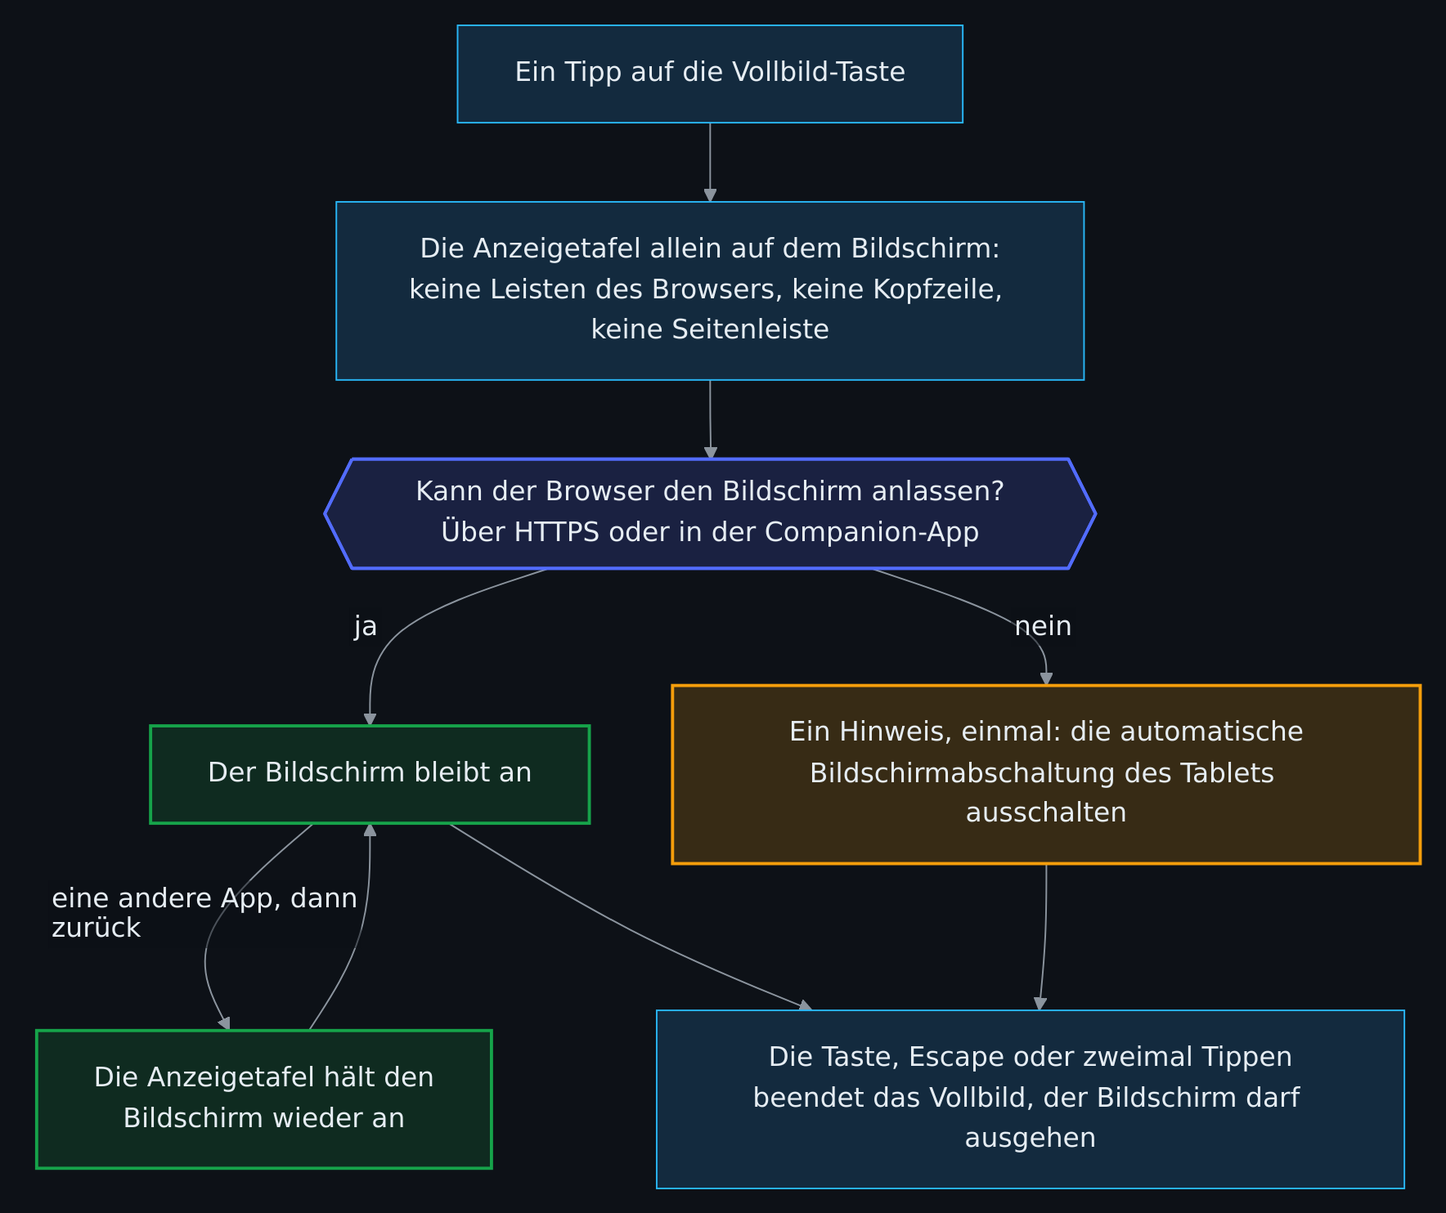
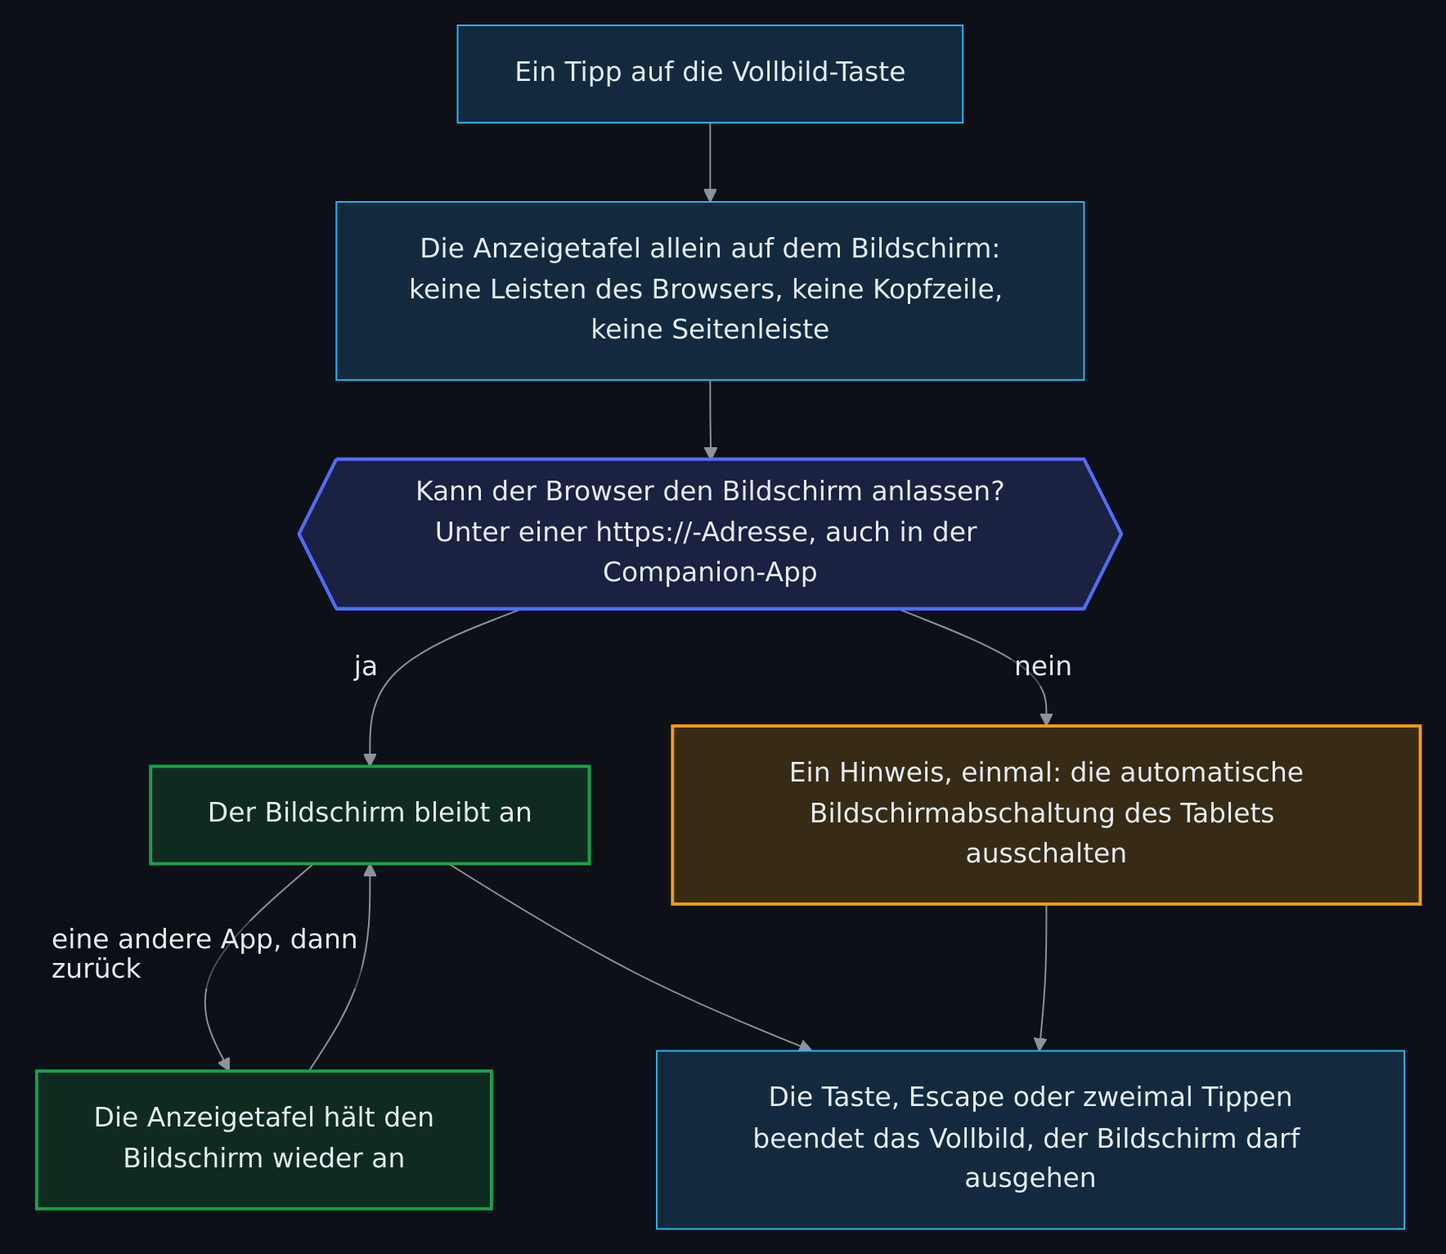
fix(cards): keep the full-screen hint in the header and say where the wake lock works
- The hint of a browser that can't keep the screen on is now a row of the
  header, so the landscape keypad grid keeps its areas while it shows.
- The Screen Wake Lock needs an https:// address in the Companion app too;
  the docs, the diagram and the editor helper in five languages say so, and
  point to the Android Companion app's own setting.
- The German README mentions the full-screen button like the English one.
- The browser test enters full screen on the tablet with the keypad, checks
  that it fits one screen, and leaves it with the button.

diff --git a/custom_components/homedarts/frontend/homedarts-card.js b/custom_components/homedarts/frontend/homedarts-card.js
@@ -7272,9 +7272,10 @@ const SCOREBOARD_CSS = `${BASE_CSS}${PAD_CSS}
     color: #fff; background: var(--ad-accent-fill); border-color: var(--ad-accent-fill);
   }
   @media (any-pointer: coarse) { .fullscreen-toggle { width: 44px; height: 44px; } }
-  /* Once, where the browser can't keep the screen on: what to do instead. */
+  /* Once, where the browser can't keep the screen on: what to do instead. It is a row of
+     its own in the header, so every layout of the scoreboard keeps its grid areas. */
   .awake-hint {
-    margin: 0; padding: .6em 1em; border-radius: 12px; font-size: clamp(13px, 1.6cqi, 18px);
+    flex: 1 0 100%; margin: 0; padding: .6em 1em; border-radius: 12px; font-size: clamp(13px, 1.6cqi, 18px);
     color: var(--ad-warn-text); background: color-mix(in srgb, ${STATUS_COLORS.takeout} 14%, transparent);
   }
   .awake-hint a { color: inherit; font-weight: 700; }
@@ -10408,9 +10409,9 @@ function createElements(Base) {
                   ${c.show_status ? `<div class="pill" role="status"></div>` : ""}
                   ${fullscreen}
                 </div>
+                <p class="awake-hint" role="status" hidden>${t("awake_hint")}
+                  <a href="${awake}" target="_blank" rel="noreferrer">${t("awake_hint_link")}</a></p>
               </header>
-              <p class="awake-hint" role="status" hidden>${t("awake_hint")}
-                <a href="${awake}" target="_blank" rel="noreferrer">${t("awake_hint_link")}</a></p>
               <div class="banner appear" role="status" hidden></div>
               <div class="main"></div>
               ${c.show_visit ? `<div class="visit"></div>` : ""}

diff --git a/custom_components/homedarts/frontend/text/fr.js b/custom_components/homedarts/frontend/text/fr.js
@@ -222,7 +222,7 @@ export default {
   "show_status": "Afficher l'état de la cible",
   "fullscreen_button": "Bouton plein écran",
   "keep_awake": "Garder l'écran allumé en plein écran",
-  "keep_awake_helper": "Là où le navigateur le permet à une page\u00a0: en HTTPS, comme avec Home Assistant Cloud, et dans l'application Companion.",
+  "keep_awake_helper": "Là où le navigateur le permet à une page\u00a0: à une adresse https://, comme avec Home Assistant Cloud, dans le navigateur comme dans l'application Companion.",
   "fullscreen": "Plein écran",
   "fullscreen_hint": "Afficher le tableau des scores seul sur tout l'écran\u00a0; le bouton, Échap ou un double appui le quitte",
   "awake_hint": "Ce navigateur ne peut pas garder l'écran allumé ici. Désactivez la mise en veille de l'écran dans les réglages de la tablette.",

diff --git a/custom_components/homedarts/frontend/text/es.js b/custom_components/homedarts/frontend/text/es.js
@@ -222,7 +222,7 @@ export default {
   "show_status": "Mostrar el estado de la diana",
   "fullscreen_button": "Botón de pantalla completa",
   "keep_awake": "Mantener la pantalla encendida en pantalla completa",
-  "keep_awake_helper": "Donde el navegador se lo permite a una página: por HTTPS, como con Home Assistant Cloud, y en la app Companion.",
+  "keep_awake_helper": "Donde el navegador se lo permite a una página: en una dirección https://, como con Home Assistant Cloud, tanto en el navegador como en la app Companion.",
   "fullscreen": "Pantalla completa",
   "fullscreen_hint": "Mostrar solo el marcador en toda la pantalla; el botón, Escape o un doble toque la cierra",
   "awake_hint": "Este navegador no puede mantener la pantalla encendida aquí. Desactiva el apagado automático de la pantalla en los ajustes de la tableta.",

diff --git a/custom_components/homedarts/frontend/text/de.js b/custom_components/homedarts/frontend/text/de.js
@@ -222,7 +222,7 @@ export default {
   "show_status": "Board-Status anzeigen",
   "fullscreen_button": "Vollbild-Taste",
   "keep_awake": "Bildschirm im Vollbild eingeschaltet lassen",
-  "keep_awake_helper": "Wo der Browser es einer Seite erlaubt: über HTTPS, etwa mit Home Assistant Cloud, und in der Companion-App.",
+  "keep_awake_helper": "Wo der Browser es einer Seite erlaubt: unter einer https://-Adresse, etwa mit Home Assistant Cloud, im Browser wie in der Companion-App.",
   "fullscreen": "Vollbild",
   "fullscreen_hint": "Die Anzeigetafel allein auf dem ganzen Bildschirm zeigen; die Taste, Escape oder zweimal Tippen beendet das Vollbild",
   "awake_hint": "Dieser Browser kann den Bildschirm hier nicht eingeschaltet lassen. Schalte die automatische Bildschirmabschaltung in den Einstellungen des Tablets aus.",

diff --git a/custom_components/homedarts/frontend/text/en.js b/custom_components/homedarts/frontend/text/en.js
@@ -225,7 +225,7 @@ export default {
   "show_status": "Show the board status",
   "fullscreen_button": "Full-screen button",
   "keep_awake": "Keep the screen on in full screen",
-  "keep_awake_helper": "Where the browser lets a page do it: over HTTPS, such as with Home Assistant Cloud, and in the Companion app.",
+  "keep_awake_helper": "Where the browser lets a page do it: at an https:// address, such as with Home Assistant Cloud, in the browser and in the Companion app alike.",
   "fullscreen": "Full screen",
   "fullscreen_hint": "Show the scoreboard alone on the whole screen; the button, Escape or a double tap leaves full screen",
   "awake_hint": "This browser can't keep the screen on here. Switch off the screen timeout in the settings of the tablet.",

diff --git a/custom_components/homedarts/frontend/text/nl.js b/custom_components/homedarts/frontend/text/nl.js
@@ -222,7 +222,7 @@ export default {
   "show_status": "Bordstatus tonen",
   "fullscreen_button": "Knop voor volledig scherm",
   "keep_awake": "Scherm aan laten bij volledig scherm",
-  "keep_awake_helper": "Waar de browser een pagina dat toestaat: via HTTPS, zoals met Home Assistant Cloud, en in de Companion-app.",
+  "keep_awake_helper": "Waar de browser een pagina dat toestaat: op een https://-adres, zoals met Home Assistant Cloud, in de browser en in de Companion-app.",
   "fullscreen": "Volledig scherm",
   "fullscreen_hint": "Toon alleen het scorebord op het hele scherm; de knop, Escape of dubbeltikken sluit het",
   "awake_hint": "Deze browser kan het scherm hier niet aan laten. Zet de schermtime-out uit in de instellingen van de tablet.",

diff --git a/tests/e2e/browser.py b/tests/e2e/browser.py
@@ -1377,6 +1377,30 @@ def tablet_screen(browser: Browser) -> None:
         and pad["top"] < main["bottom"],
         f"The pad is not beside the scores: {fit}",
     )
+    # Full screen: the keypad layout still fills exactly one screen, with the hint of a
+    # browser that can't keep the screen on over plain HTTP in the header, and the button
+    # brings the configured height back.
+    toggle = page.locator(f"{card} .fullscreen-toggle")
+    toggle.click()
+    page.wait_for_function("() => !!document.fullscreenElement", timeout=15000)
+    check(
+        toggle.get_attribute("aria-pressed") == "true",
+        "The full-screen button is not pressed in full screen",
+    )
+    page.locator(f"{card} header .awake-hint").wait_for(timeout=15000)
+    fits("The keypad in full screen")
+    fills("The keypad in full screen")
+    check(
+        page.evaluate(TABLET_FIT)["beside"],
+        "The pad is not beside the scores in full screen",
+    )
+    toggle.click()
+    page.wait_for_function("() => !document.fullscreenElement", timeout=15000)
+    check(
+        toggle.get_attribute("aria-pressed") == "false",
+        "The full-screen button stays pressed after full screen",
+    )
+    fills("The keypad after full screen")
     page.evaluate(CALL_SERVICE, ["switch", "turn_off", "practice_manual_entry"])
     game_off()
 

diff --git a/docs/scoreboard.de.md b/docs/scoreboard.de.md
@@ -44,11 +44,11 @@ Die Vollbild-Taste oben rechts auf der Anzeigetafel zeigt die Anzeigetafel allei
 
 <picture>
   <source media="(prefers-color-scheme: dark)" srcset="images/de/fullscreen-dark.png">
-  <img src="images/de/fullscreen-light.png" alt="Wie die Anzeigetafel im Vollbild den Bildschirm eingeschaltet lässt: Ein Tipp auf die Vollbild-Taste zeigt die Anzeigetafel allein auf dem Bildschirm, ohne die Leisten des Browsers und ohne Kopfzeile und Seitenleiste von Home Assistant. Wo der Browser einer Seite erlaubt, den Bildschirm eingeschaltet zu lassen, über HTTPS oder in der Companion-App, bleibt er an. Zeigt das Tablet eine andere App, lässt der Browser los, und die Anzeigetafel hält den Bildschirm wieder an, sobald die Seite wieder zu sehen ist. Wo der Browser es nicht kann, sagt ein Hinweis einmal, die automatische Bildschirmabschaltung des Tablets auszuschalten. Die Taste, Escape oder zweimal Tippen beendet das Vollbild, und der Bildschirm darf wieder ausgehen." width="560">
+  <img src="images/de/fullscreen-light.png" alt="Wie die Anzeigetafel im Vollbild den Bildschirm eingeschaltet lässt: Ein Tipp auf die Vollbild-Taste zeigt die Anzeigetafel allein auf dem Bildschirm, ohne die Leisten des Browsers und ohne Kopfzeile und Seitenleiste von Home Assistant. Wo der Browser einer Seite erlaubt, den Bildschirm eingeschaltet zu lassen, unter einer https://-Adresse im Browser wie in der Companion-App, bleibt er an. Zeigt das Tablet eine andere App, lässt der Browser los, und die Anzeigetafel hält den Bildschirm wieder an, sobald die Seite wieder zu sehen ist. Wo der Browser es nicht kann, sagt ein Hinweis einmal, die automatische Bildschirmabschaltung des Tablets auszuschalten. Die Taste, Escape oder zweimal Tippen beendet das Vollbild, und der Bildschirm darf wieder ausgehen." width="560">
 </picture>
 
-- **Der Bildschirm bleibt an,** solange die Anzeigetafel ihn füllt: Die Karte bittet den Browser, den Bildschirm anzulassen (Screen Wake Lock), und bittet erneut, wenn das Tablet die Seite nach einer anderen App wieder zeigt. Browser erlauben das einer Seite nur über HTTPS, etwa unter der Adresse von Home Assistant Cloud, und in der Companion-App von Home Assistant.
-- **Wo der Browser es nicht kann,** etwa unter einer Adresse, die mit `http://` beginnt, sagt die Anzeigetafel das einmal, mit einem Link auf diesen Abschnitt. Schalte die automatische Bildschirmabschaltung in den Einstellungen des Tablets aus, zumindest am Ladegerät, oder öffne die Ansicht in einem Kiosk-Browser, der den Bildschirm anlässt.
+- **Der Bildschirm bleibt an,** solange die Anzeigetafel ihn füllt: Die Karte bittet den Browser, den Bildschirm anzulassen (Screen Wake Lock), und bittet erneut, wenn das Tablet die Seite nach einer anderen App wieder zeigt. Browser erlauben das einer Seite nur unter einer Adresse, die mit `https://` beginnt, etwa der von Home Assistant Cloud; das gilt auch für die Companion-App von Home Assistant, die Home Assistant in einem eigenen Browser zeigt.
+- **Wo der Browser es nicht kann,** etwa unter einer Adresse, die mit `http://` beginnt, sagt die Anzeigetafel das einmal, mit einem Link auf diesen Abschnitt. Schalte die automatische Bildschirmabschaltung in den Einstellungen des Tablets aus, zumindest am Ladegerät, oder öffne die Ansicht in einem Kiosk-Browser, der den Bildschirm anlässt. Die Android-Companion-App kann den Bildschirm auch selbst anlassen, mit einer Einstellung unter *Companion-App* in ihren Einstellungen.
 - **Wo die Taste erscheint:** in jedem Browser, der eine Seite ins Vollbild lässt, etwa Chrome, Edge, Firefox und Samsung Internet auf einem Tablet, einem Computer oder einem Handy, und Safari auf einem iPad. Safari auf dem iPhone zeigt nur Videos auf dem ganzen Bildschirm, dort bleibt die Taste weg: Lege die Ansicht stattdessen auf den Home-Bildschirm, der sie ohne die Leisten von Safari öffnet. Der Fernseher mit [Home Assistant Cast](#auf-dem-fernseher-mit-home-assistant-cast) und das [Stream-Overlay](#stream-overlay) haben auch keine, sie füllen ihren Bildschirm ohnehin.
 - **Deine Wahl:** `fullscreen_button: false` blendet die Taste aus, und `keep_awake: false` überlässt den Bildschirm den Einstellungen des Tablets. Beides steht im Karteneditor und im Abschnitt *Ansicht Anzeigetafel* des [automatischen Dashboards](cards.de.md#automatisches-dashboard).
 
@@ -320,7 +320,7 @@ overlay_color: "#FF00FF"
 | Was du siehst | Was hilft |
 | --- | --- |
 | Darts werden nicht gezählt | Die Erkennung ist gestoppt: Der Status oben rechts zeigt *Erkennung gestoppt*. Der Start in der Spielauswahl schaltet sie ein; sonst schaltest du sie im [Board-Status](cards.de.md#board-status) oder in der Live-Karte ein. Prüfe außerdem, dass *Übungsspiel* nicht auf *Aus* steht und kein [Online-Match](online-matches.de.md) das Board belegt. |
-| Der Bildschirm geht während eines Spiels aus | Im Vollbild lässt die Anzeigetafel den Bildschirm nur über HTTPS und in der Companion-App an; sonst sagt sie das einmal. Schalte die automatische Bildschirmabschaltung des Tablets aus; siehe [Vollbild](#vollbild). |
+| Der Bildschirm geht während eines Spiels aus | Im Vollbild lässt die Anzeigetafel den Bildschirm nur unter einer `https://`-Adresse an, im Browser wie in der Companion-App; sonst sagt sie das einmal. Schalte die automatische Bildschirmabschaltung des Tablets aus; siehe [Vollbild](#vollbild). |
 | Der Caller bleibt stumm | Tippe nach jedem Neuladen der Seite einmal auf **Caller**: Browser spielen Ton erst nach einem Tippen ab. Prüfe die Lautstärke des Geräts. |
 | Der Caller spricht trotz Voice-Pack mit der Stimme des Browsers | Der Name des Packs ist der Name seines Ordners in `homedarts/voices` des Medienordners, in derselben Groß- und Kleinschreibung. Ansagen, für die das Pack keine Datei hat, spricht immer der Browser; siehe die [Dateien eines Packs](#voice-packs). Dateien, die nach dem Einschalten des Callers kopiert wurden, zählen nach dem nächsten Tippen auf **Caller**. |
 | Die Spielauswahl öffnet sich nicht | Sie öffnet sich nie in der Vorschau des Karteneditors und nicht mit `lobby: false`. |

diff --git a/docs/scoreboard.md b/docs/scoreboard.md
@@ -44,11 +44,11 @@ The full-screen button at the top right of the scoreboard puts the scoreboard al
 
 <picture>
   <source media="(prefers-color-scheme: dark)" srcset="images/en/fullscreen-dark.png">
-  <img src="images/en/fullscreen-light.png" alt="How the scoreboard keeps the screen on in full screen: A tap on the full-screen button puts the scoreboard alone on the screen, without the bars of the browser and the header and sidebar of Home Assistant. Where the browser lets a page hold the screen on, over HTTPS or in the Companion app, the screen stays on. When the tablet shows another app, the browser lets go, and the scoreboard holds the screen on again when the page shows. Where the browser can't, a hint says once to switch off the screen timeout of the tablet. The button, Escape or a double tap leaves full screen and lets the screen sleep." width="560">
+  <img src="images/en/fullscreen-light.png" alt="How the scoreboard keeps the screen on in full screen: A tap on the full-screen button puts the scoreboard alone on the screen, without the bars of the browser and the header and sidebar of Home Assistant. Where the browser lets a page hold the screen on, at an https:// address in the browser and in the Companion app alike, the screen stays on. When the tablet shows another app, the browser lets go, and the scoreboard holds the screen on again when the page shows. Where the browser can't, a hint says once to switch off the screen timeout of the tablet. The button, Escape or a double tap leaves full screen and lets the screen sleep." width="560">
 </picture>
 
-- **The screen stays on** while the scoreboard fills it: the card asks the browser for a screen wake lock and asks again when the tablet shows the page after another app. Browsers give it to a page only over HTTPS, such as the address of Home Assistant Cloud, and in the Home Assistant Companion app.
-- **Where the browser can't,** for example at an address that starts with `http://`, the scoreboard says so once, with a link to this section. Switch off the screen timeout in the settings of the tablet, at least while it is on the charger, or open the view in a kiosk browser that keeps the screen on.
+- **The screen stays on** while the scoreboard fills it: the card asks the browser for a screen wake lock and asks again when the tablet shows the page after another app. Browsers give it to a page only at an address that starts with `https://`, such as the one of Home Assistant Cloud; that holds for the Home Assistant Companion app too, which shows Home Assistant in a browser of its own.
+- **Where the browser can't,** for example at an address that starts with `http://`, the scoreboard says so once, with a link to this section. Switch off the screen timeout in the settings of the tablet, at least while it is on the charger, or open the view in a kiosk browser that keeps the screen on. The Android Companion app can also keep the screen on by itself, with a setting under *Companion app* in its settings.
 - **Where the button shows:** in every browser that lets a page go full screen, such as Chrome, Edge, Firefox and Samsung Internet on a tablet, a computer or a phone, and Safari on an iPad. Safari on an iPhone shows only videos on the whole screen, so the button stays away there: add the view to the home screen instead, which opens it without the bars of Safari. The TV of [Home Assistant Cast](#on-a-tv-with-home-assistant-cast) and the [stream overlay](#stream-overlay) have no button either, as they fill their screen anyway.
 - **Your choice:** `fullscreen_button: false` hides the button, and `keep_awake: false` leaves the screen to the settings of the tablet. Both are in the card editor and in the section *Scoreboard view* of the [automatic dashboard](cards.md#automatic-dashboard).
 
@@ -320,7 +320,7 @@ overlay_color: "#FF00FF"
 | What you see | What helps |
 | --- | --- |
 | Darts are not counted | Detection is stopped: the status at the top right says *Detection stopped*. The new game screen's start switches it on; otherwise switch it on with the [board status card](cards.md#board-status-card) or the live card. Also check that *Practice game* is not *Off* and that no [online match](online-matches.md) holds the board. |
-| The screen goes dark during a game | In full screen the scoreboard keeps the screen on only over HTTPS and in the Companion app; elsewhere it says so once. Switch off the screen timeout of the tablet; see [full screen](#full-screen). |
+| The screen goes dark during a game | In full screen the scoreboard keeps the screen on only at an `https://` address, in the browser and in the Companion app alike; elsewhere it says so once. Switch off the screen timeout of the tablet; see [full screen](#full-screen). |
 | The caller stays silent | Tap **Caller** once after every reload of the page: browsers play sound only after a tap. Check the volume of the device. |
 | The caller speaks with the browser's voice despite a voice pack | The name of the pack is the name of its folder in `homedarts/voices` of the media folder, in the same case. Calls the pack has no file for are always the browser's; see the [files of a pack](#voice-packs). Files copied after the caller was switched on count after the next tap on **Caller**. |
 | The new game screen does not open | It never opens in the preview of the card editor, and not with `lobby: false`. |

diff --git a/docs/cards.de.md b/docs/cards.de.md
@@ -337,7 +337,7 @@ Seiten ohne Inhalt werden übersprungen. Ein Dart, ein neues Spiel oder ein Tipp
 | `show_visit` | Wahrheitswert | `true` | Die Darts der aktuellen Aufnahme anzeigen |
 | `show_status` | Wahrheitswert | `true` | Den Board-Status anzeigen |
 | `fullscreen_button` | Wahrheitswert | `true` | Die [Vollbild-Taste](scoreboard.de.md#vollbild) oben rechts zeigen, wo der Browser Vollbild anbietet: die Anzeigetafel allein auf dem Bildschirm, ohne die Leisten des Browsers und ohne Kopfzeile und Seitenleiste von Home Assistant |
-| `keep_awake` | Wahrheitswert | `true` | Den Bildschirm anlassen, solange die Anzeigetafel im Vollbild ist, wo der Browser es erlaubt: über HTTPS und in der Companion-App |
+| `keep_awake` | Wahrheitswert | `true` | Den Bildschirm anlassen, solange die Anzeigetafel im Vollbild ist, wo der Browser es erlaubt: unter einer `https://`-Adresse, im Browser wie in der Companion-App |
 | `caller` | Wahrheitswert | `false` | Den Caller einschalten: Der Bildschirm sagt Aufnahmen, den Rest eines Spielers, Überwerfen und Game shot an |
 | `call_scores` | Wahrheitswert | `true` | Die Punkte jeder Aufnahme ansagen (Cricket: ihre Marks) |
 | `call_checkouts` | Wahrheitswert | `true` | Ansagen, was der nächste Spieler braucht, wenn ein Checkout möglich ist |

diff --git a/docs/cards.md b/docs/cards.md
@@ -337,7 +337,7 @@ Panels with nothing to show are skipped. A dart, a new game or a tap anywhere en
 | `show_visit` | boolean | `true` | Show the darts of the current visit |
 | `show_status` | boolean | `true` | Show the board status |
 | `fullscreen_button` | boolean | `true` | Show the [full-screen button](scoreboard.md#full-screen) at the top right, where the browser offers full screen: the scoreboard alone on the screen, without the bars of the browser and Home Assistant's header and sidebar |
-| `keep_awake` | boolean | `true` | Keep the screen on while the scoreboard is in full screen, where the browser allows it: over HTTPS and in the Companion app |
+| `keep_awake` | boolean | `true` | Keep the screen on while the scoreboard is in full screen, where the browser allows it: at an `https://` address, in the browser and in the Companion app alike |
 | `caller` | boolean | `false` | Switch the caller on: the screen announces visits, what a player requires, busts and game shots |
 | `call_scores` | boolean | `true` | Call the score of every visit (Cricket: its marks) |
 | `call_checkouts` | boolean | `true` | Call what the next player requires when a checkout is possible |

diff --git a/docs/README.de.md b/docs/README.de.md
@@ -111,7 +111,7 @@ Du kommst von Autodarts Local, einer anderen Integration für Autodarts oder dar
 
 ### Bildschirm am Board
 
-- Eine Anzeigetafel für Tablet oder Fernseher, auch über Chromecast, lesbar vom Abwurf aus
+- Eine Anzeigetafel für Tablet oder Fernseher, auch über Chromecast, lesbar vom Abwurf aus, mit einer [Vollbild-Taste](https://dennis-otto.github.io/homedarts-for-autodarts/de/scoreboard.html#vollbild), die den Bildschirm anlässt
 - Eine Spielauswahl, um Spiel, Spieler und Format direkt am Board zu wählen oder ein Turnier zu starten
 - Ein Caller, der das Spiel über den Browser des Bildschirms ansagt, auch mit den aufgenommenen Voice-Packs von darts-caller oder einer Stimme, die du mit Piper aufnimmst
 - Ein Ruhemodus mit Bestenliste, Bestleistungen, den Darts von heute und einer Uhr
